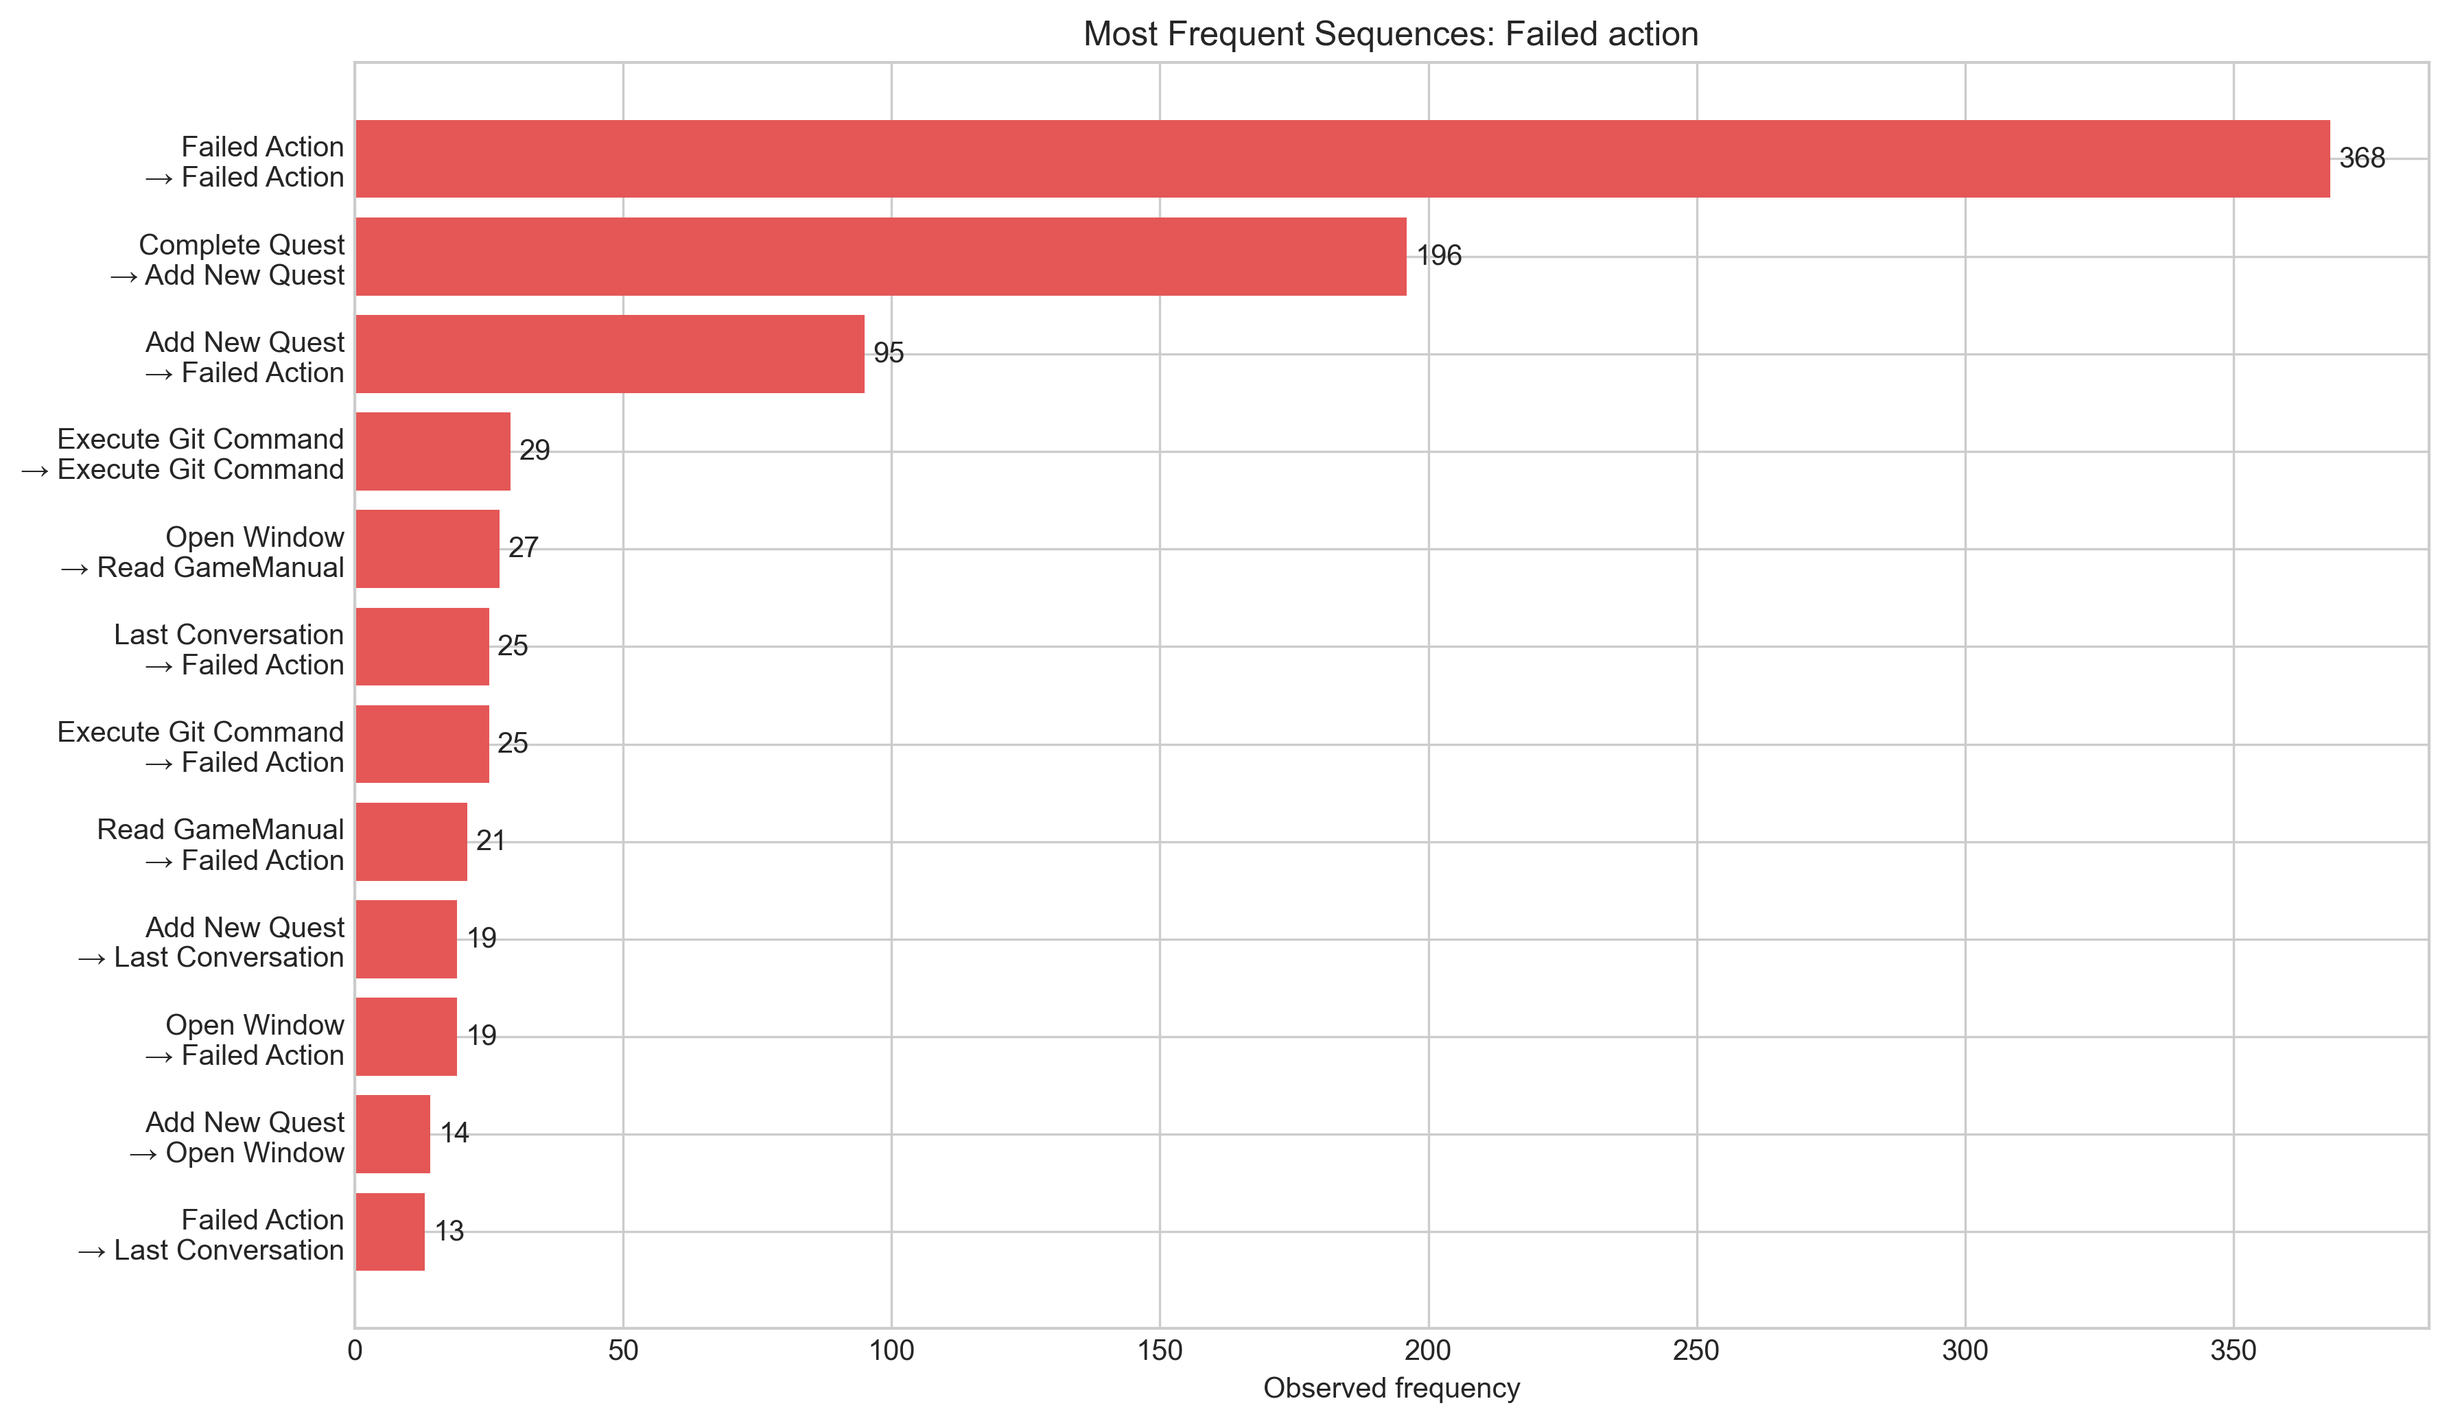
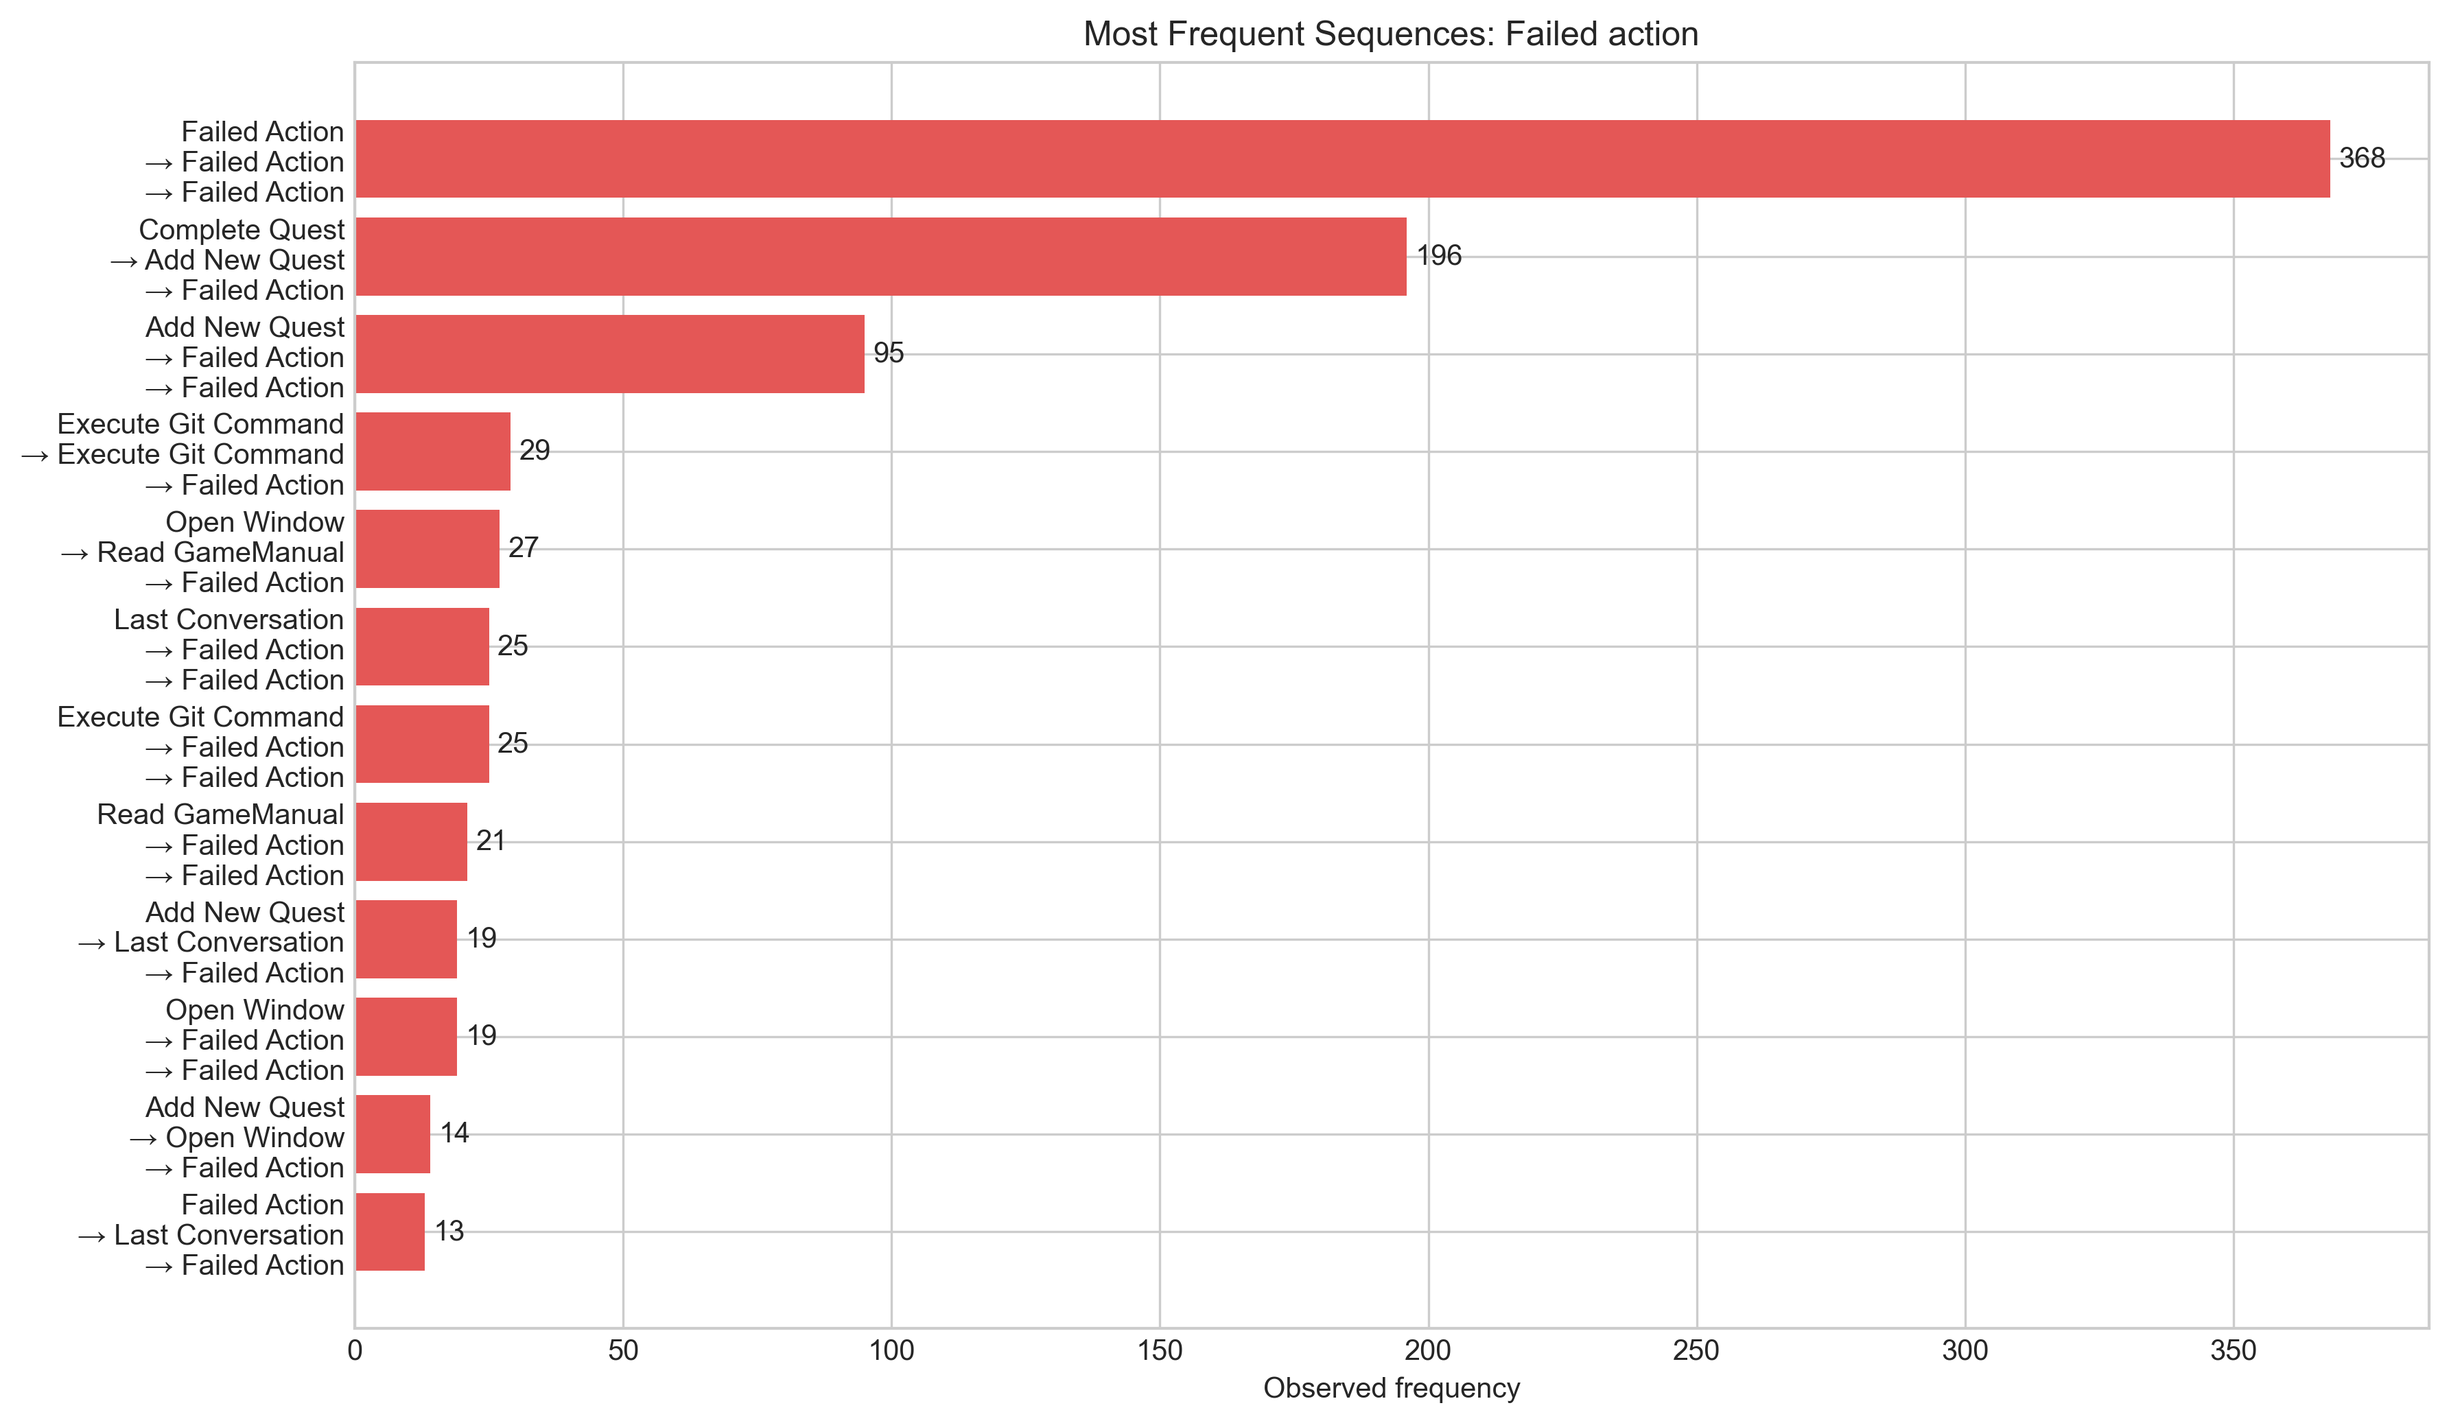
update

Changed region(s): [[0.0, 0.0926, 0.1555, 0.8949]]

diff --git a/Extract-Data-Code/cluster_profile_analysis.py b/Extract-Data-Code/cluster_profile_analysis.py
@@ -37,6 +37,29 @@ OUTCOMES = [
     "AvgBestScore", "AvgClearTime",
 ]
 
+FEATURE_DEFINITIONS = {
+    "ActivitySpanDays": "Days between the player's first and last recorded event.",
+    "TotalSessions": "Number of recorded login/session events.",
+    "EventsPerSession": "Total logged events divided by total sessions.",
+    "QuestsPerSession": "Quests added divided by total sessions.",
+    "HelpRatio": "Hint-assisted plus answer-assisted quests divided by quests added.",
+    "ActionSuccessRate": "Correct actions divided by correct plus failed actions.",
+    "QuestCompletionRate": "Completed quests divided by quests added.",
+    "PerfectRatio": "Perfect quest completions divided by all completed quests.",
+    "ManualOpens": "Number of game-manual opening events.",
+    "LeaderboardChecks": "Number of global leaderboard checks.",
+    "CommandsExecuted": "Cumulative number of Git commands executed.",
+    "StagesAttempted": "Number of distinct stages observed in the event log.",
+}
+OUTCOME_DEFINITIONS = {
+    "GameProgress": "Cumulative game-progress percentage; used only for profiling.",
+    "TotalScore": "Cumulative stage score; used only for profiling.",
+    "TotalStars": "Cumulative earned stars; used only for profiling.",
+    "StagesCleared": "Cumulative number of stages cleared; used only for profiling.",
+    "AvgBestScore": "Mean best score across player-stage records; used only for profiling.",
+    "AvgClearTime": "Mean clear time across player-stage records; used only for profiling.",
+}
+
 
 def build_python_feature_table(source):
     """Derive clustering variables directly from the combined per-user CSV."""
@@ -279,6 +302,12 @@ def main(data_dir="."):
 
     gaps.to_csv(data_dir / "analysis_gap_statistic.csv", index=False, encoding="utf-8-sig")
     validity.to_csv(data_dir / "analysis_cluster_selection_methods.csv", index=False, encoding="utf-8-sig")
+    pd.DataFrame(
+        [{"feature": name, "role": "clustering input", "definition": FEATURE_DEFINITIONS[name]}
+         for name in FEATURES] +
+        [{"feature": name, "role": "profile outcome", "definition": OUTCOME_DEFINITIONS[name]}
+         for name in OUTCOMES]
+    ).to_csv(data_dir / "analysis_cluster_feature_dictionary.csv", index=False, encoding="utf-8-sig")
     assignments.to_csv(data_dir / "analysis_kmeans_assignments.csv", index=False, encoding="utf-8-sig")
     profiles.to_csv(data_dir / "analysis_cluster_profiles.csv", index=False, encoding="utf-8-sig")
     standardized_profiles.to_csv(

diff --git a/Extract-Data-Code/deep_behavior_analysis.py b/Extract-Data-Code/deep_behavior_analysis.py
@@ -599,11 +599,19 @@ def export_analysis_results(results, output_dir):
         for seq, count in failure_seq.most_common(50):
             seq_data.append({'sequence': ' → '.join(seq), 'count': count, 'type': 'with_help'})
         for seq, count in results.get('failure_sequences', Counter()).most_common(50):
-            seq_data.append({'sequence': ' → '.join(seq), 'count': count, 'type': 'failed_action'})
+            seq_data.append({'sequence': ' → '.join(seq + ('Failed Action',)), 'count': count, 'type': 'failed_action'})
         sequence_df = pd.DataFrame(seq_data)
         sequence_df.to_csv(f"{output_dir}/analysis_behavior_sequences.csv", index=False, encoding='utf-8-sig')
         print(f"Exported: analysis_behavior_sequences.csv")
         create_sequence_charts(sequence_df, output_dir)
+        pd.DataFrame([
+            {'field': 'sequence', 'definition': 'Ordered event-name pattern immediately before and including the focal outcome where applicable.'},
+            {'field': 'count', 'definition': 'Number of times the exact sequence was observed across all players in both data versions.'},
+            {'field': 'type=success_perfect', 'definition': 'Three events immediately preceding a Complete Quest event whose detail contains Perfect.'},
+            {'field': 'type=with_help', 'definition': 'Three events immediately preceding a Complete Quest event whose detail contains Hint or Answer.'},
+            {'field': 'type=failed_action', 'definition': 'Two events immediately preceding Failed Action, followed by the Failed Action outcome.'},
+            {'field': 'ordering', 'definition': 'Events are grouped by player and ordered by eventTime; sequences never cross player boundaries.'},
+        ]).to_csv(f"{output_dir}/analysis_sequence_feature_dictionary.csv", index=False, encoding='utf-8-sig')
 
 
 def create_sequence_charts(sequence_df, output_dir):

diff --git a/Extract-Data-Code/behavior_transition_analysis.py b/Extract-Data-Code/behavior_transition_analysis.py
@@ -31,6 +31,15 @@ EVENT_TO_STATE = {
     "Restart Stage(Clear)": "R",
 }
 
+STATE_DESCRIPTIONS = {
+    "A": "Successful task-level action; currently represented by Correct Action.",
+    "E": "Navigation or information exploration: opening windows, checking the global leaderboard, or logging in.",
+    "CM": "Direct Git command manipulation; represented by Execute Git Command.",
+    "IM": "Use of instructional or conversational support: game manual, hint, answer, or last conversation.",
+    "F": "Unsuccessful behavior or unresolved stage exit: failed action, unclear restart, or return without clearing.",
+    "R": "Quest/stage progression or reward-related activity: add/complete quest, start/complete stage, or clear-stage return/restart.",
+}
+
 
 def calculate_transitions(events, assignments):
     events = events.copy()
@@ -114,6 +123,11 @@ def main(data_dir="."):
     transitions, state_counts = calculate_transitions(events, assignments)
     transitions.to_csv(data_dir / "analysis_behavior_transitions_by_cluster.csv", index=False, encoding="utf-8-sig")
     state_counts.to_csv(data_dir / "analysis_behavior_state_profiles.csv", index=False, encoding="utf-8-sig")
+    pd.DataFrame([
+        {"state": state, "label": STATE_LABELS[state], "definition": STATE_DESCRIPTIONS[state],
+         "included_events": "; ".join(event for event, mapped in EVENT_TO_STATE.items() if mapped == state)}
+        for state in STATE_ORDER
+    ]).to_csv(data_dir / "analysis_behavior_state_dictionary.csv", index=False, encoding="utf-8-sig")
     for cluster in sorted(transitions["Cluster"].unique()):
         draw_transition_diagram(cluster, transitions[transitions["Cluster"] == cluster],
                                 state_counts[state_counts["Cluster"] == cluster], data_dir)

diff --git a/Extract-Data-Code/extract_per_user_data.py b/Extract-Data-Code/extract_per_user_data.py
@@ -197,7 +197,11 @@ def extract_user_game_record(game_records_df, username):
     if len(user_record) == 0:
         return None
     
-    record = user_record.iloc[0].to_dict()
+    # Player-save values are cumulative. If a player occurs in both exports,
+    # use the latest Version-2 snapshot instead of summing or taking Version-1.
+    if 'dataVersion' in user_record.columns and (user_record['dataVersion'] == 'Version-2').any():
+        user_record = user_record[user_record['dataVersion'] == 'Version-2']
+    record = user_record.iloc[-1].to_dict()
     return record
 
 def extract_user_stage_progress(stage_data_df, username):
@@ -210,6 +214,11 @@ def extract_user_stage_progress(stage_data_df, username):
     
     if len(user_stages) == 0:
         return None, None
+
+    # Stage rows are also cumulative snapshots; retain the latest version for
+    # overlapping users so the same stages are not counted twice.
+    if 'dataVersion' in user_stages.columns and (user_stages['dataVersion'] == 'Version-2').any():
+        user_stages = user_stages[user_stages['dataVersion'] == 'Version-2'].copy()
     
     # Summary statistics
     summary = {

diff --git a/MD-Document/PYTHON_ANALYSIS_RESEARCH_GUIDE.md b/MD-Document/PYTHON_ANALYSIS_RESEARCH_GUIDE.md
@@ -11,15 +11,50 @@ python Extract-Data-Code\run_analysis.py
 
 Tables and figures are written to `Analysis-Log-Results`.
 
+### Data used in the current combined analysis
+
+| Combined table | Version-1 | Version-2 | Total |
+|---|---:|---:|---:|
+| Events | 22,118 | 9,512 | 31,630 |
+| Player game records | 50 | 54 | 104 |
+| Player-stage records | 1,700 | 1,836 | 3,536 |
+| Player-owned stage leaderboard entries | 741 | 254 | 995 |
+| Global leaderboard entries | 637 | 293 | 930 |
+
+After sources are combined, the per-user table contains 105 distinct usernames observed in at least one source. Cluster and profile analyses use these 105 cases. Transition and sequence analyses use the 31,630 combined timestamped events. Event histories are concatenated across versions. One player-save username (`Le Trung Hieu`) occurs in both versions; because save and stage fields are cumulative snapshots, its latest Version-2 snapshot is retained rather than summing both snapshots and double-counting progress.
+
 ## Behavioral sequence analysis
 
 Events are ordered by player and timestamp. Event sequences preceding perfect completion, hint/answer-assisted completion, and failed actions are counted. These frequencies identify recurring pathways; they do not establish causality. Highly active players produce more sequences, so frequency should be interpreted alongside engagement.
+
+Sequence output fields are:
+
+| Field/type | Meaning |
+|---|---|
+| `sequence` | Ordered event names forming the observed pattern. |
+| `count` | Frequency across the combined Version-1 and Version-2 event logs. |
+| `success_perfect` | Three events immediately before a `Complete Quest` event marked `Perfect`. |
+| `with_help` | Three events immediately before a `Complete Quest` event marked `Hint` or `Answer`. |
+| `failed_action` | Two events before `Failed Action`, followed by the failure event. |
+
+Sequences are calculated within players and never cross from one player to another. Only the 50 most frequent patterns per outcome are exported and visualized. The sequence features are raw event categories and local temporal order; cluster labels and performance outcomes are not used to create these patterns.
 
 Outputs include `analysis_behavior_sequences.csv`, three outcome-specific sequence charts, and `figure_sequence_category_comparison.png`.
 
 ### Cluster-specific transition diagrams
 
 The workflow also reduces events to six interpretable states: **A** (action), **E** (exploration), **CM** (command manipulation), **IM** (instructional material/help), **F** (failure), and **R** (reward/progression). For each player, consecutive state pairs are counted after ordering events by timestamp. Counts are pooled within clusters and converted to conditional probabilities, where each value means the probability of the next state given the current state.
+
+| State | Meaning | Included game events |
+|---|---|---|
+| A — Action | Successful task-level action | `Correct Action` |
+| E — Exploration | Navigation or information exploration | `Open Window`, `Check GlobalLeaderBoard`, `Login` |
+| CM — Command manipulation | Direct Git command activity | `Execute Git Command` |
+| IM — Instructional material/help | Instructional, hint, answer, or conversational support | `Read GameManual`, `Use Hint`, `Use Answer`, `Last Conversation` |
+| F — Failure | Unsuccessful action or unresolved stage exit | `Failed Action`, `Restart Stage(Not Clear)`, `Back To Stage Select(Not Clear)` |
+| R — Reward/progression | Quest or stage progression and clear-related activity | `Add New Quest`, `Complete Quest`, `Start Stage`, `Complete Stage`, `Back To Stage Select(Clear)`, `Restart Stage(Clear)` |
+
+These are operational categories created for this study, not labels stored in the original database. If the paper uses different theoretical definitions, revise `EVENT_TO_STATE` in `behavior_transition_analysis.py` and rerun the workflow.
 
 The diagrams display transitions with probability at least .15 and at least five observations to control visual clutter. All transitions, including those omitted visually, remain in `analysis_behavior_transitions_by_cluster.csv`. Node size represents state frequency and arrow width represents transition probability. The accompanying heatmaps show the complete numerical transition matrices.
 
@@ -36,6 +71,23 @@ Suggested methods text:
 ## Cluster construction
 
 Clusters use 12 behavioral features: activity span, sessions, events per session, quests per session, help ratio, action success rate, quest completion rate, perfect ratio, manual opens, leaderboard checks, commands executed, and stages attempted. Missing values are median-imputed and features are standardized. Performance outcomes are withheld from fitting and used afterward for profile interpretation, reducing circularity.
+
+| Clustering feature | Operational definition |
+|---|---|
+| ActivitySpanDays | Days between first and last recorded event |
+| TotalSessions | Number of recorded login/session events |
+| EventsPerSession | Total events / sessions |
+| QuestsPerSession | Quests added / sessions |
+| HelpRatio | (Hint-assisted + answer-assisted quests) / quests added |
+| ActionSuccessRate | Correct actions / (correct + failed actions) |
+| QuestCompletionRate | Completed quests / quests added |
+| PerfectRatio | Perfect completions / completed quests |
+| ManualOpens | Number of game-manual opening events |
+| LeaderboardChecks | Number of global leaderboard checks |
+| CommandsExecuted | Cumulative executed Git commands |
+| StagesAttempted | Distinct stages observed in event logs |
+
+Six variables—GameProgress, TotalScore, TotalStars, StagesCleared, AvgBestScore, and AvgClearTime—are **profile outcomes**, not K-means inputs. They help explain external performance differences after behavioral groups have been formed.
 
 Suggested methods text:
 
